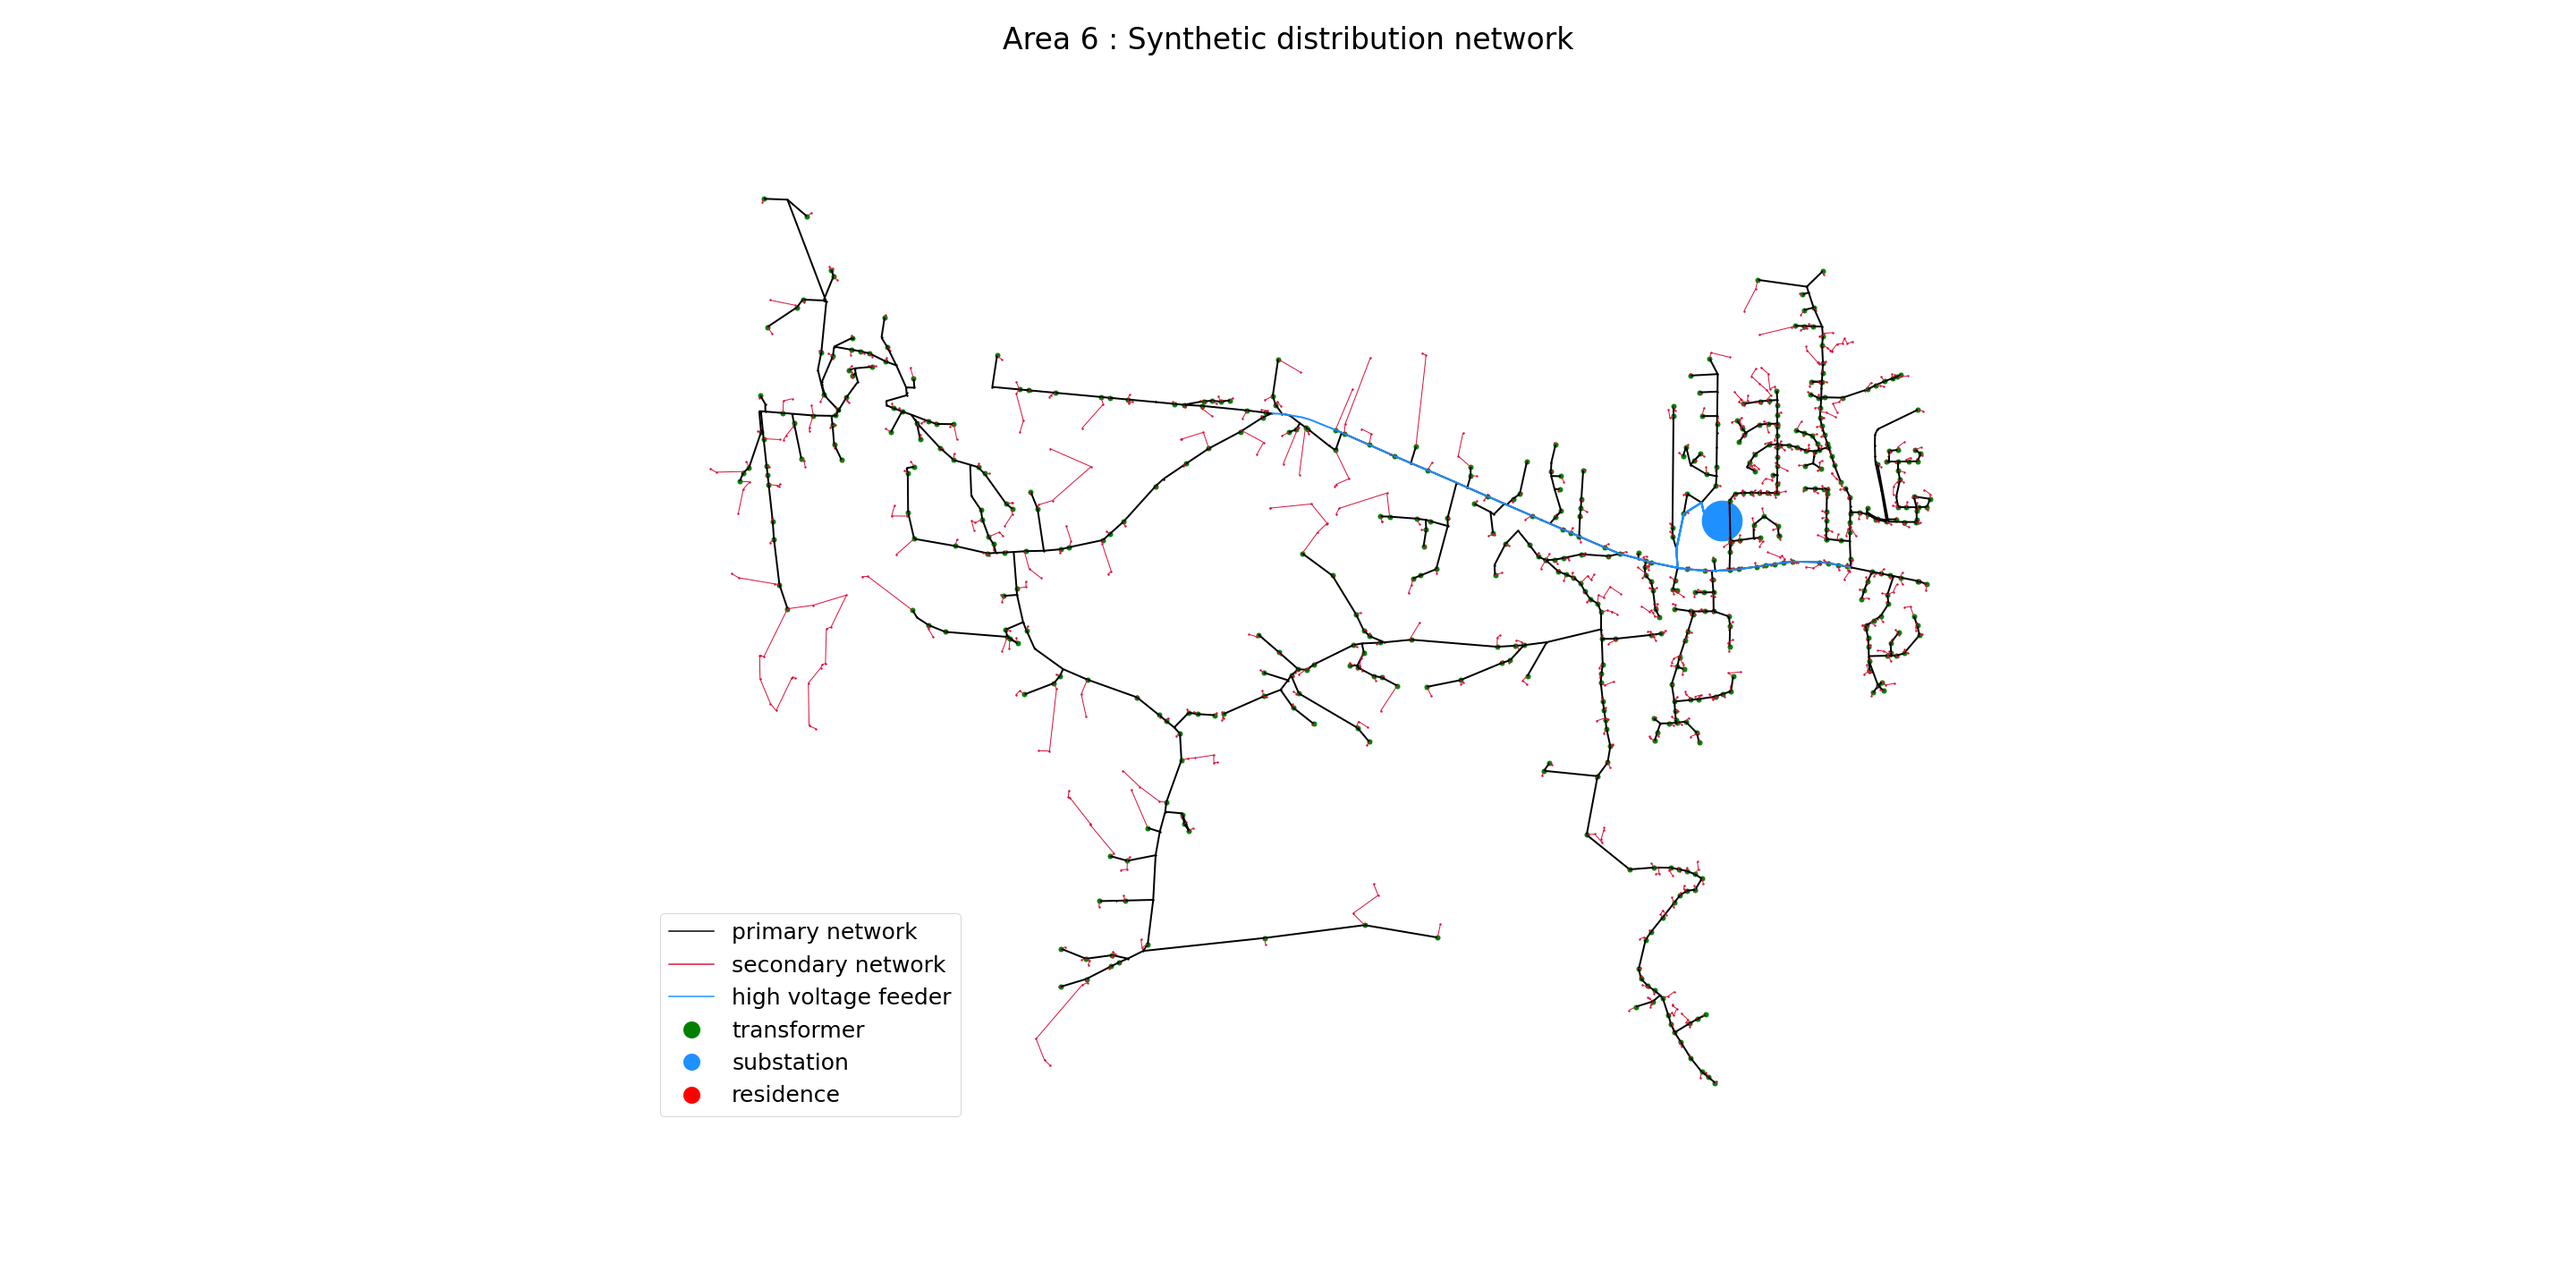
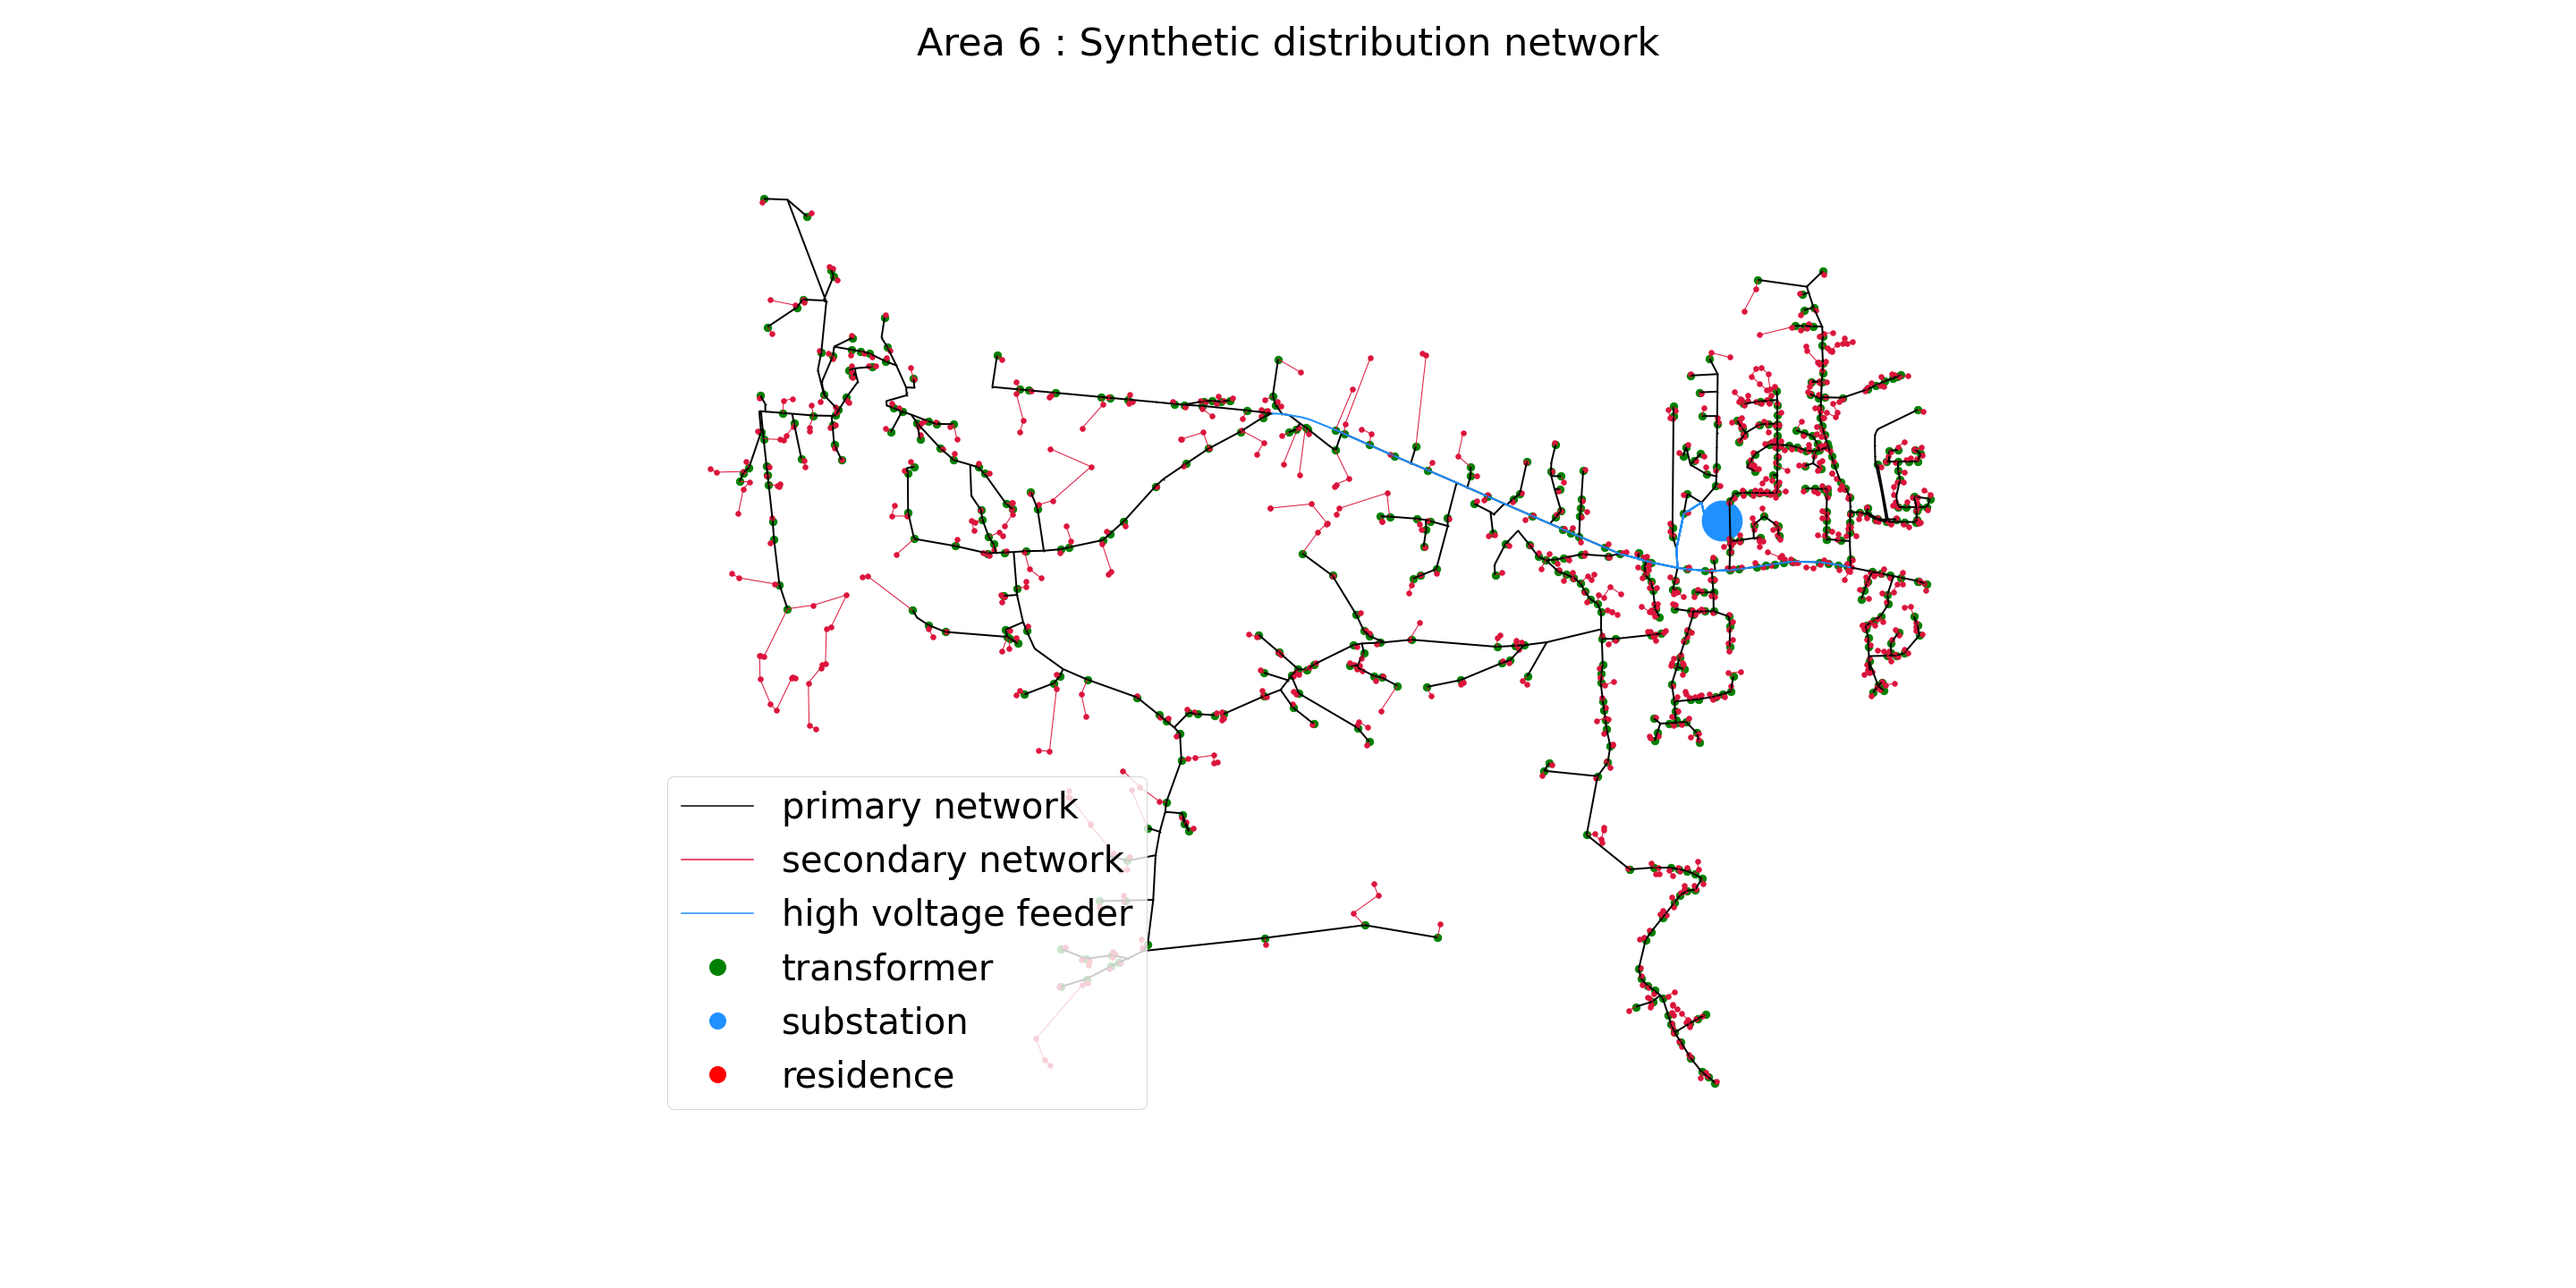
updated figures

diff --git a/pyUtilslib.py b/pyUtilslib.py
@@ -150,18 +150,29 @@ def highlight_regions(geom_regions, ax,  **kwargs):
 def plot_network(net, ax, **kwargs):
     """
     """
+    sub_size = kwargs.get("substation_size", 2000)
+    tsf_size = kwargs.get("transformer_size", 70)
+    road_size = kwargs.get("roadnode_size", 1)
+    ev_size = kwargs.get("evcs_size", 700)
+    res_size = kwargs.get("home_size", 30)
+    primnet_wdth = kwargs.get("primnet_width", 2)
+    hvnet_wdth = kwargs.get("hvnet_width", 2)
+    secnet_wdth = kwargs.get("secnet_width", 1)
+    evnet_wdth = kwargs.get("evcs_conn_width", 3)
+    fontsize = kwargs.get("fontsize", 30)
+    
     # Draw nodes
-    DrawNodes(net,ax,label='S',color='dodgerblue',size=2000)
-    DrawNodes(net,ax,label='T',color='green',size=25)
-    DrawNodes(net,ax,label='R',color='black',size=2.0)
-    DrawNodes(net,ax,label='E',color='peru',size=300.0)
-    DrawNodes(net,ax,label='H',color='crimson',size=2.0)
+    DrawNodes(net,ax,label='S',color='dodgerblue',size=sub_size)
+    DrawNodes(net,ax,label='T',color='green',size=tsf_size)
+    DrawNodes(net,ax,label='R',color='black',size=road_size)
+    DrawNodes(net,ax,label='E',color='peru',size=ev_size)
+    DrawNodes(net,ax,label='H',color='crimson',size=res_size)
     
     # Draw edges
-    DrawEdges(net,ax,label='P',color='black',width=2.0)
-    DrawEdges(net,ax,label='E',color='dodgerblue',width=2.0)
-    DrawEdges(net,ax,label='L',color='peru',width=1.8)
-    DrawEdges(net,ax,label='S',color='crimson',width=1.0)
+    DrawEdges(net,ax,label='P',color='black',width=primnet_wdth)
+    DrawEdges(net,ax,label='E',color='dodgerblue',width=hvnet_wdth)
+    DrawEdges(net,ax,label='L',color='peru',width=evnet_wdth)
+    DrawEdges(net,ax,label='S',color='crimson',width=secnet_wdth)
     
     # Legend for the plot
     leghands = [Line2D([0], [0], color='black', markerfacecolor='black', 
@@ -185,7 +196,8 @@ def plot_network(net, ax, **kwargs):
             )
     
     ax.tick_params(left=False,bottom=False,labelleft=False,labelbottom=False)
-    ax.legend(handles=leghands,loc='best',ncol=1,prop={'size': 25})
+    ax.legend(handles=leghands,loc='best',ncol=1,
+              fontsize=fontsize)
     return
 
 

diff --git a/test-routing.py b/test-routing.py
@@ -4,7 +4,7 @@ fx = EVCSFixture('runTest')
 fx.out_dir = "out/script"
 fx.fig_dir = "figs/script"
 fx.grb_dir = "gurobi/script"
-fx.area = 'Area 6'
+fx.area = 'Area 9'
 
 
 fx.demand = float(30 * 1000 / 24.0)
@@ -15,19 +15,24 @@ synth_net, evcs = fx.read_inputs()
 fx.plot_synth_net(synth_net, 
                   suptitle_sfx = "Synthetic distribution network",
                   to_file = f"{fx.area}_synthetic_net", 
-                  show = True, fontsize=30
+                  show = True, fontsize=40
                   )
-
-# additional edges for routing
-synth_net,flag = fx.connect_evcs(
-    synth_net, evcs, 
-    connection="optimal",
-    lambda_ = 1000, 
-    epsilon=1e-1,
-    solver="gurobi", verbose=True)
-
-fx.plot_synth_net(synth_net, 
-                  suptitle_sfx = "Optimal routing of EVCS",
-                  to_file = f"{fx.area}_evcs_connection", 
-                  show = True, fontsize=30,
-                  )
+for conn in ["nearest", "optimal"]:
+    synth_net, evcs = fx.read_inputs()
+    initial = sum([synth_net.edges[e]["length"] \
+                        for e in synth_net.edges])
+    # additional edges for routing
+    synth_net,flag = fx.connect_evcs(
+        synth_net, evcs, 
+        connection=conn,
+        lambda_ = 1e2, 
+        epsilon=1e-1,
+        solver="gurobi", verbose=True)
+    final = sum([synth_net.edges[e]["length"] \
+                        for e in synth_net.edges])
+    add = final - initial
+    fx.plot_synth_net(synth_net, 
+                      suptitle_sfx = f"{conn.title()} routing of EVCS : additional length = {add : 0.2f} meters",
+                      to_file = f"{fx.area}_evcs_{conn}_connection", 
+                      show = True, fontsize=40,
+                      )

diff --git a/routing.py b/routing.py
@@ -50,7 +50,7 @@ conn_list = ["nearest", "optimal"]
 #              'Area 15', 'Area 16', 'Area 17', 'Area 18', 'Area 19', 'Area 20']
         
 # area_list = ['Area 1', 'Area 4', 'Area 8', 'Area 11', 'Area 12', 'Area 15']
-area_list = ['Area 6']
+area_list = ['Area 9']
 lambda_list = [10, 100, 1000, 10000, 100000]
 rating_list = [30, 50, 100, 120, 150, 180, 250, 350]
 conn_list = ["optimal"]
